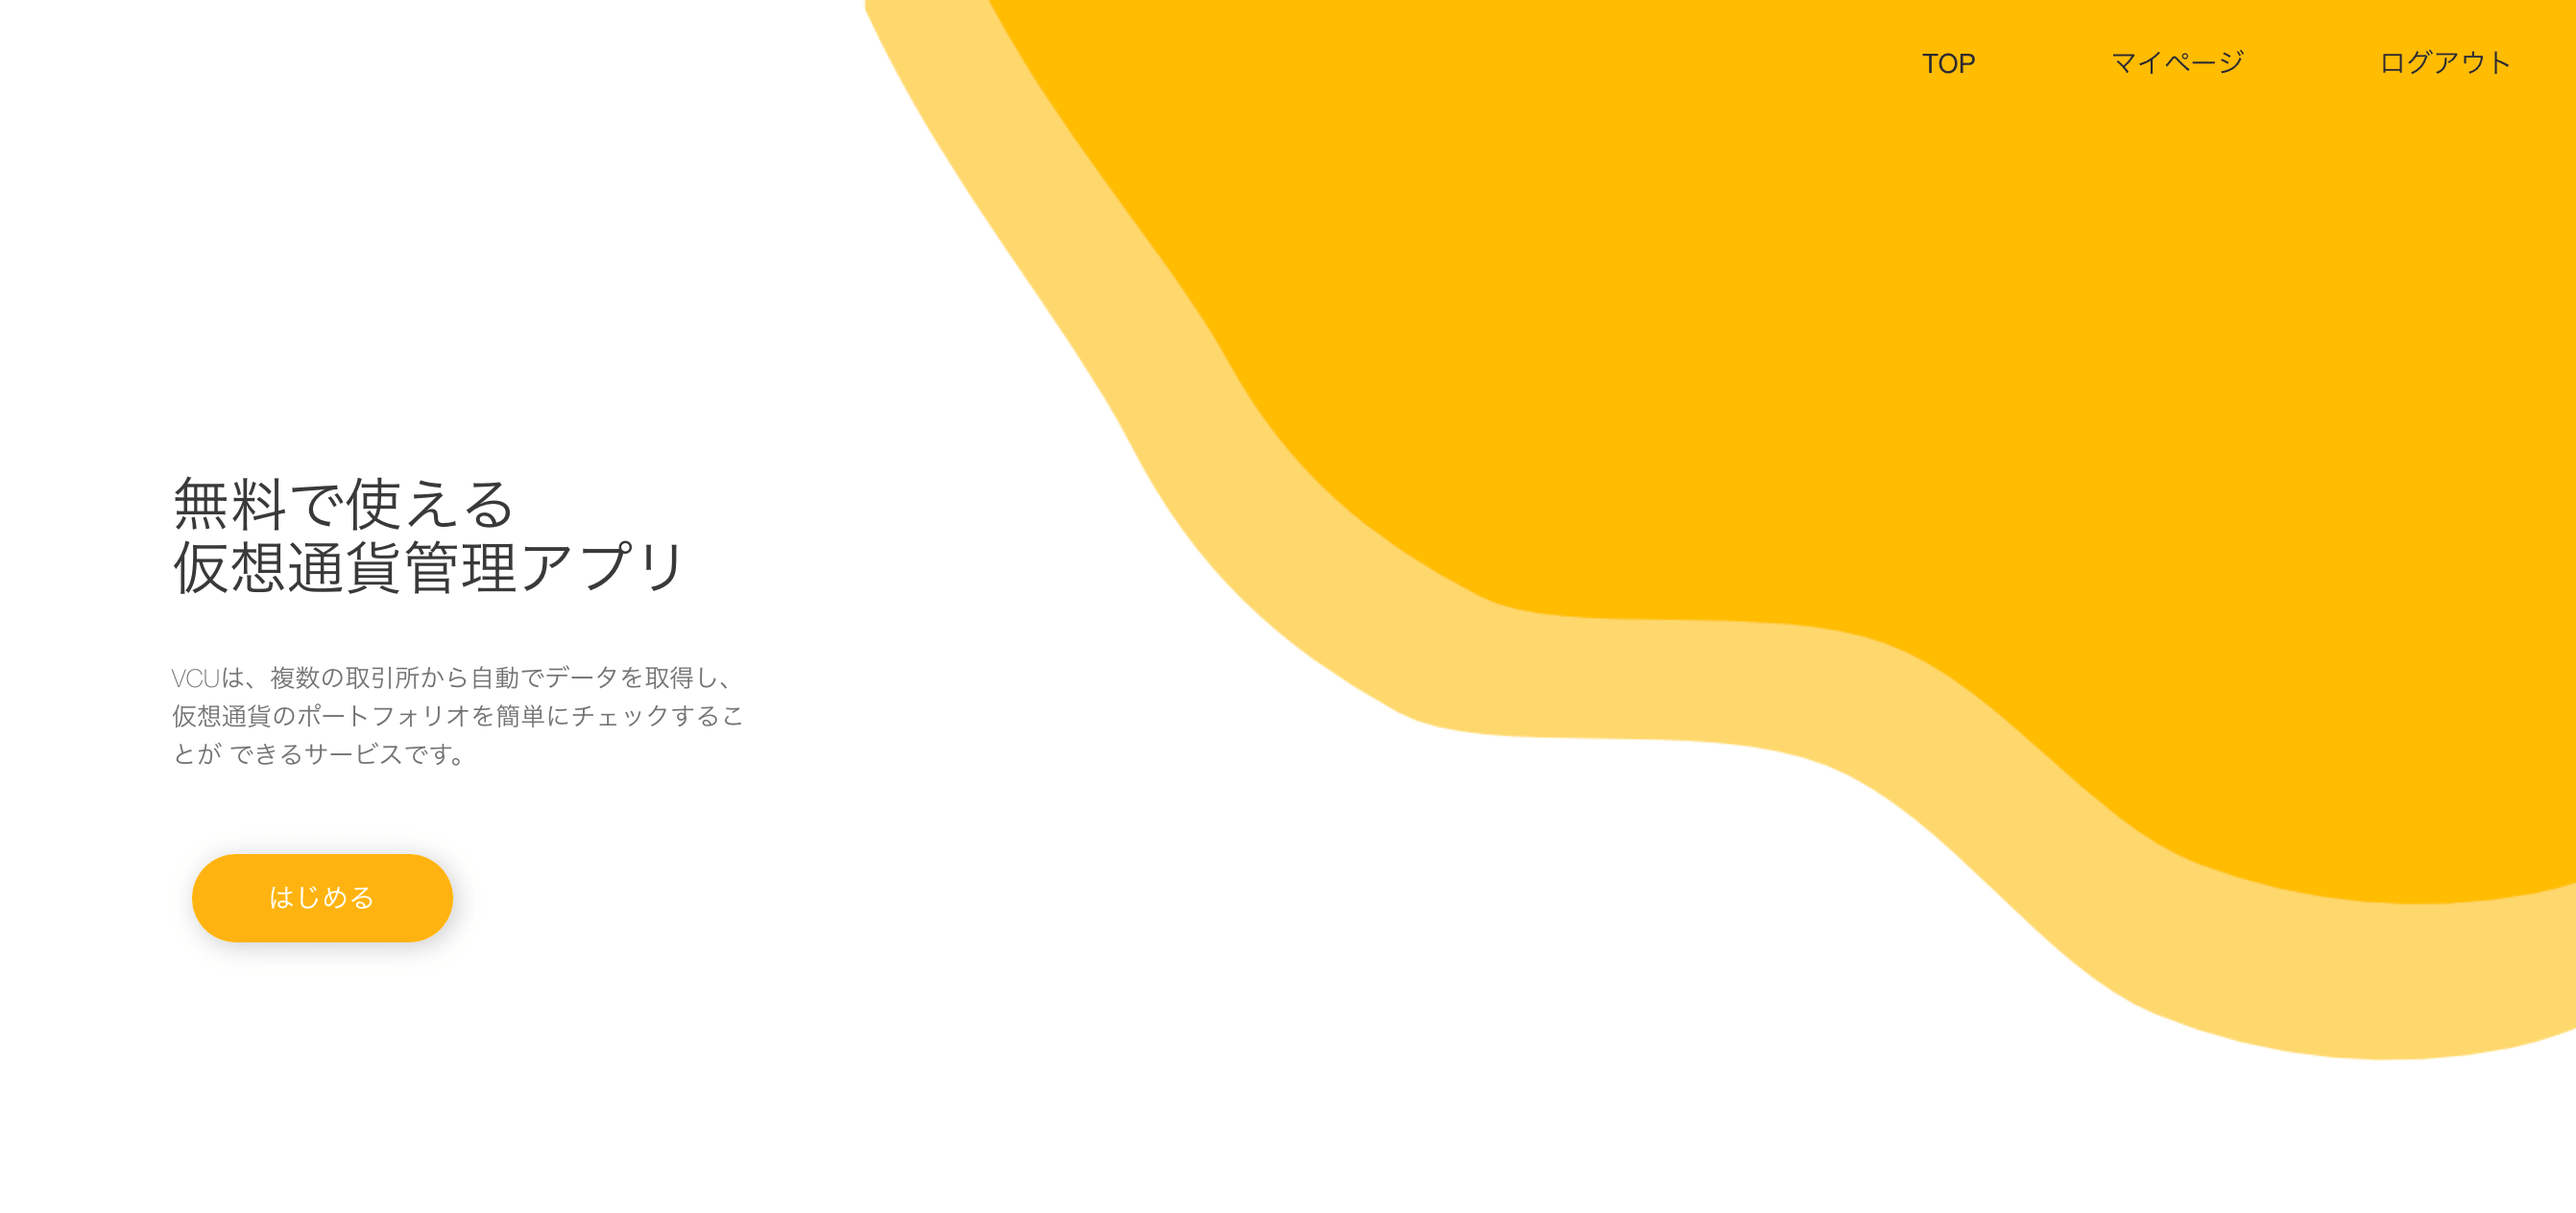
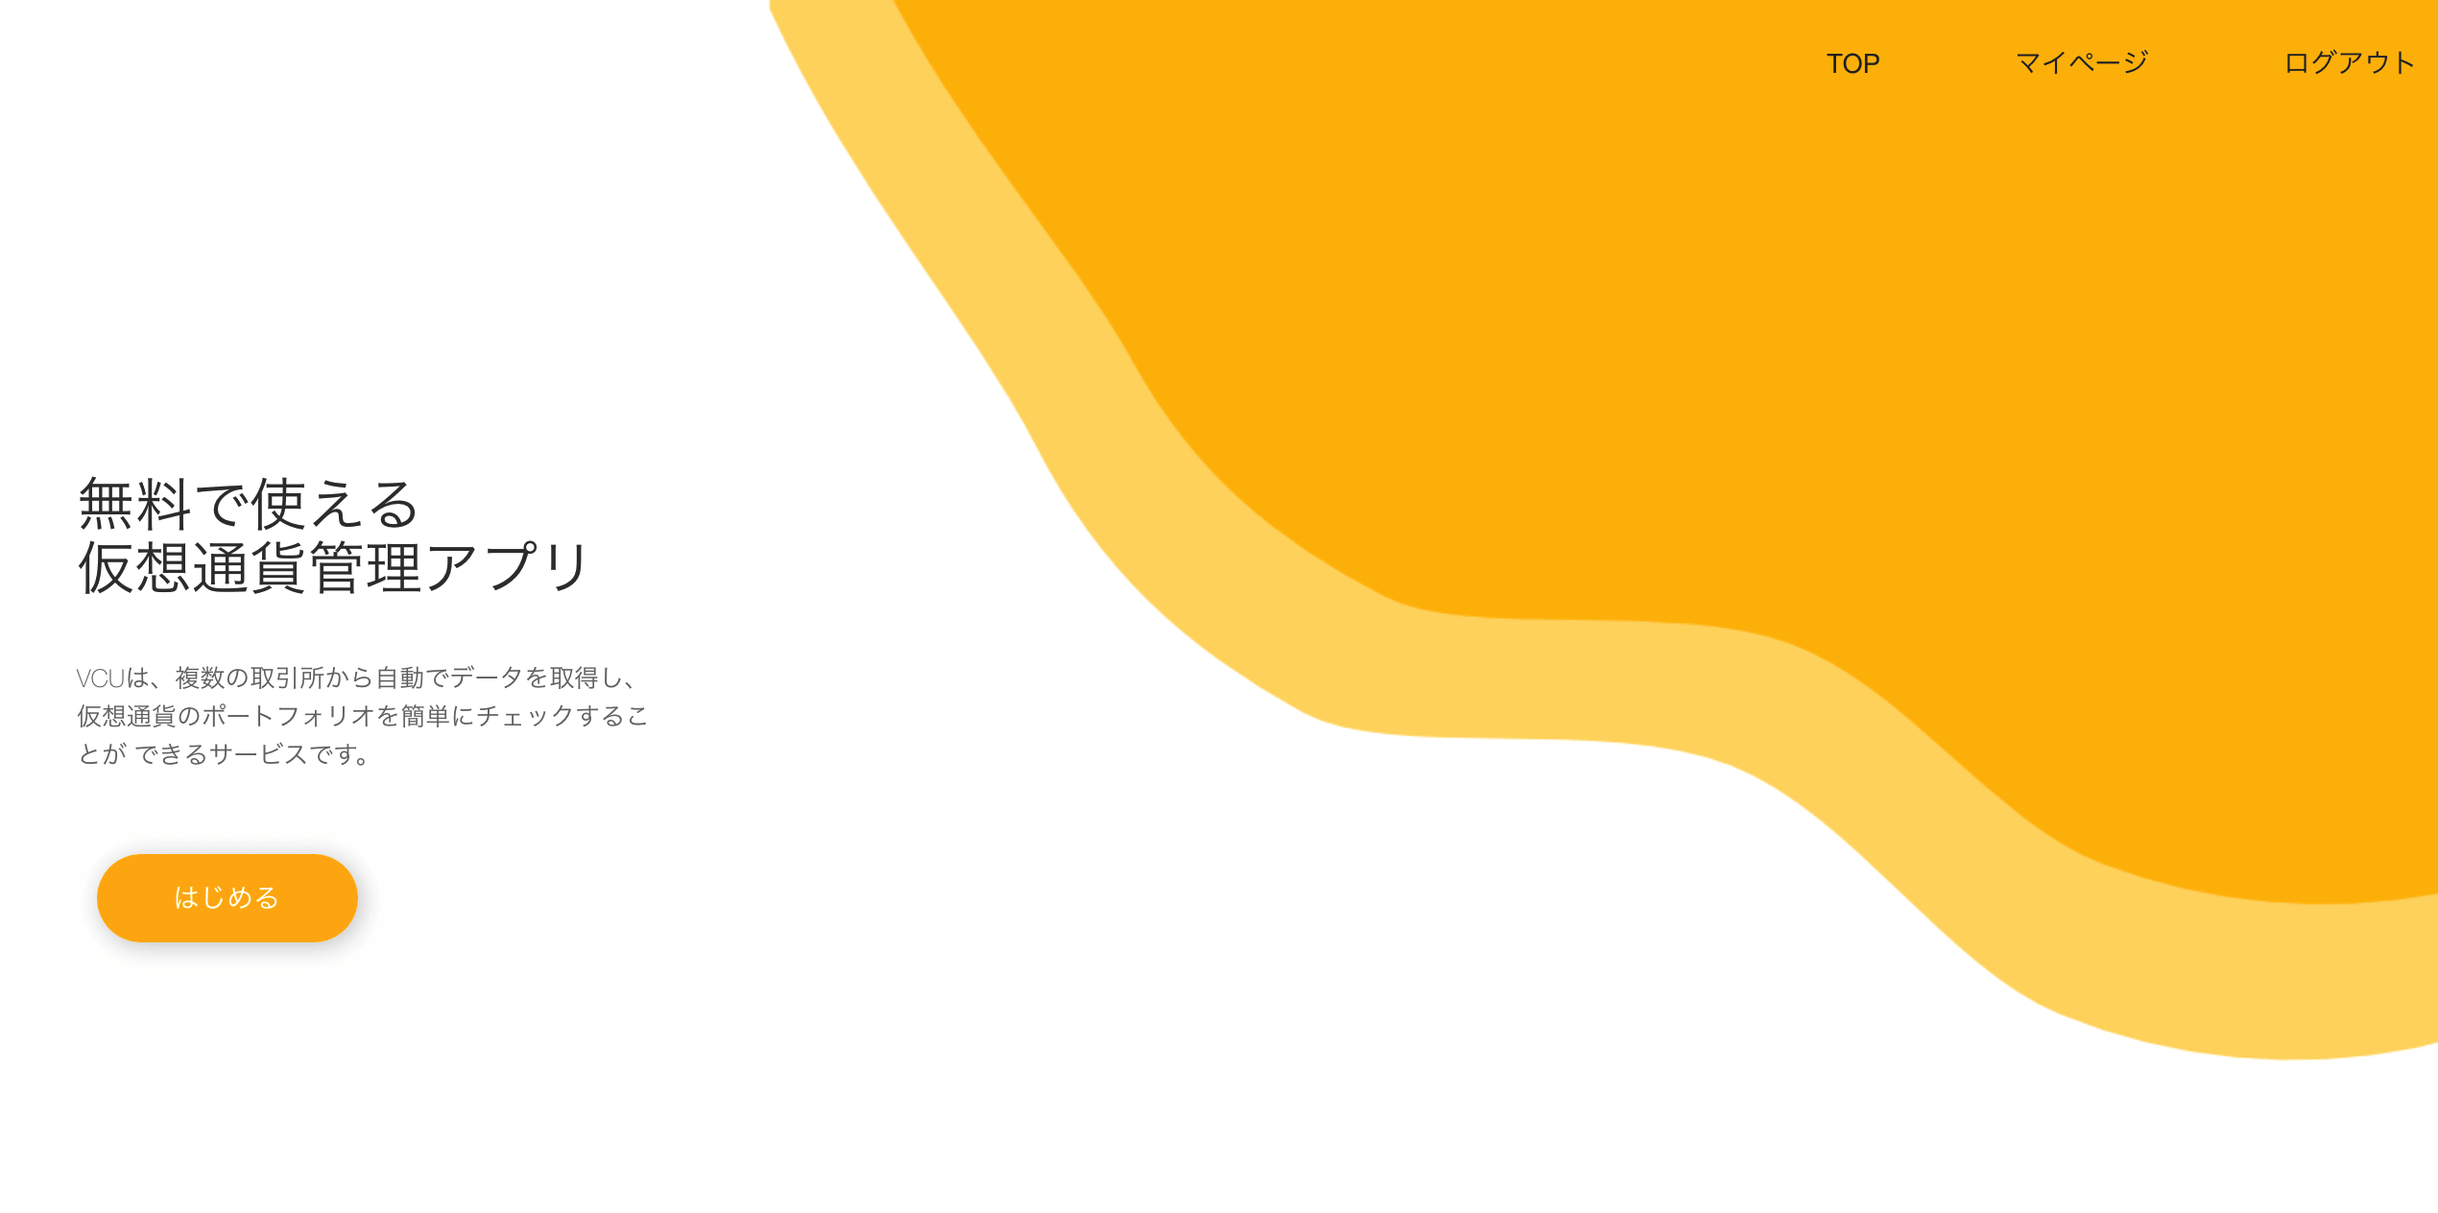
Fix images

diff --git a/public/index.html b/public/index.html
@@ -27,7 +27,7 @@
   <meta property="og:image" content="%PUBLIC_URL%/images/background.png" />
 
   <link rel="stylesheet" href="css/main.css">
-  <link href="https://fonts.googleapis.com/css?family=Playfair+Display+SC|Prata|Rufina|Vidaloka" rel="stylesheet">
+  <link href="https://fonts.googleapis.com/css?family=Quicksand|Raleway|Montserrat|Open+Sans|Playfair+Display+SC|Prata|Rufina|Vidaloka" rel="stylesheet">
 
   <script async src="https://platform.twitter.com/widgets.js" charset="utf-8"></script>
 
